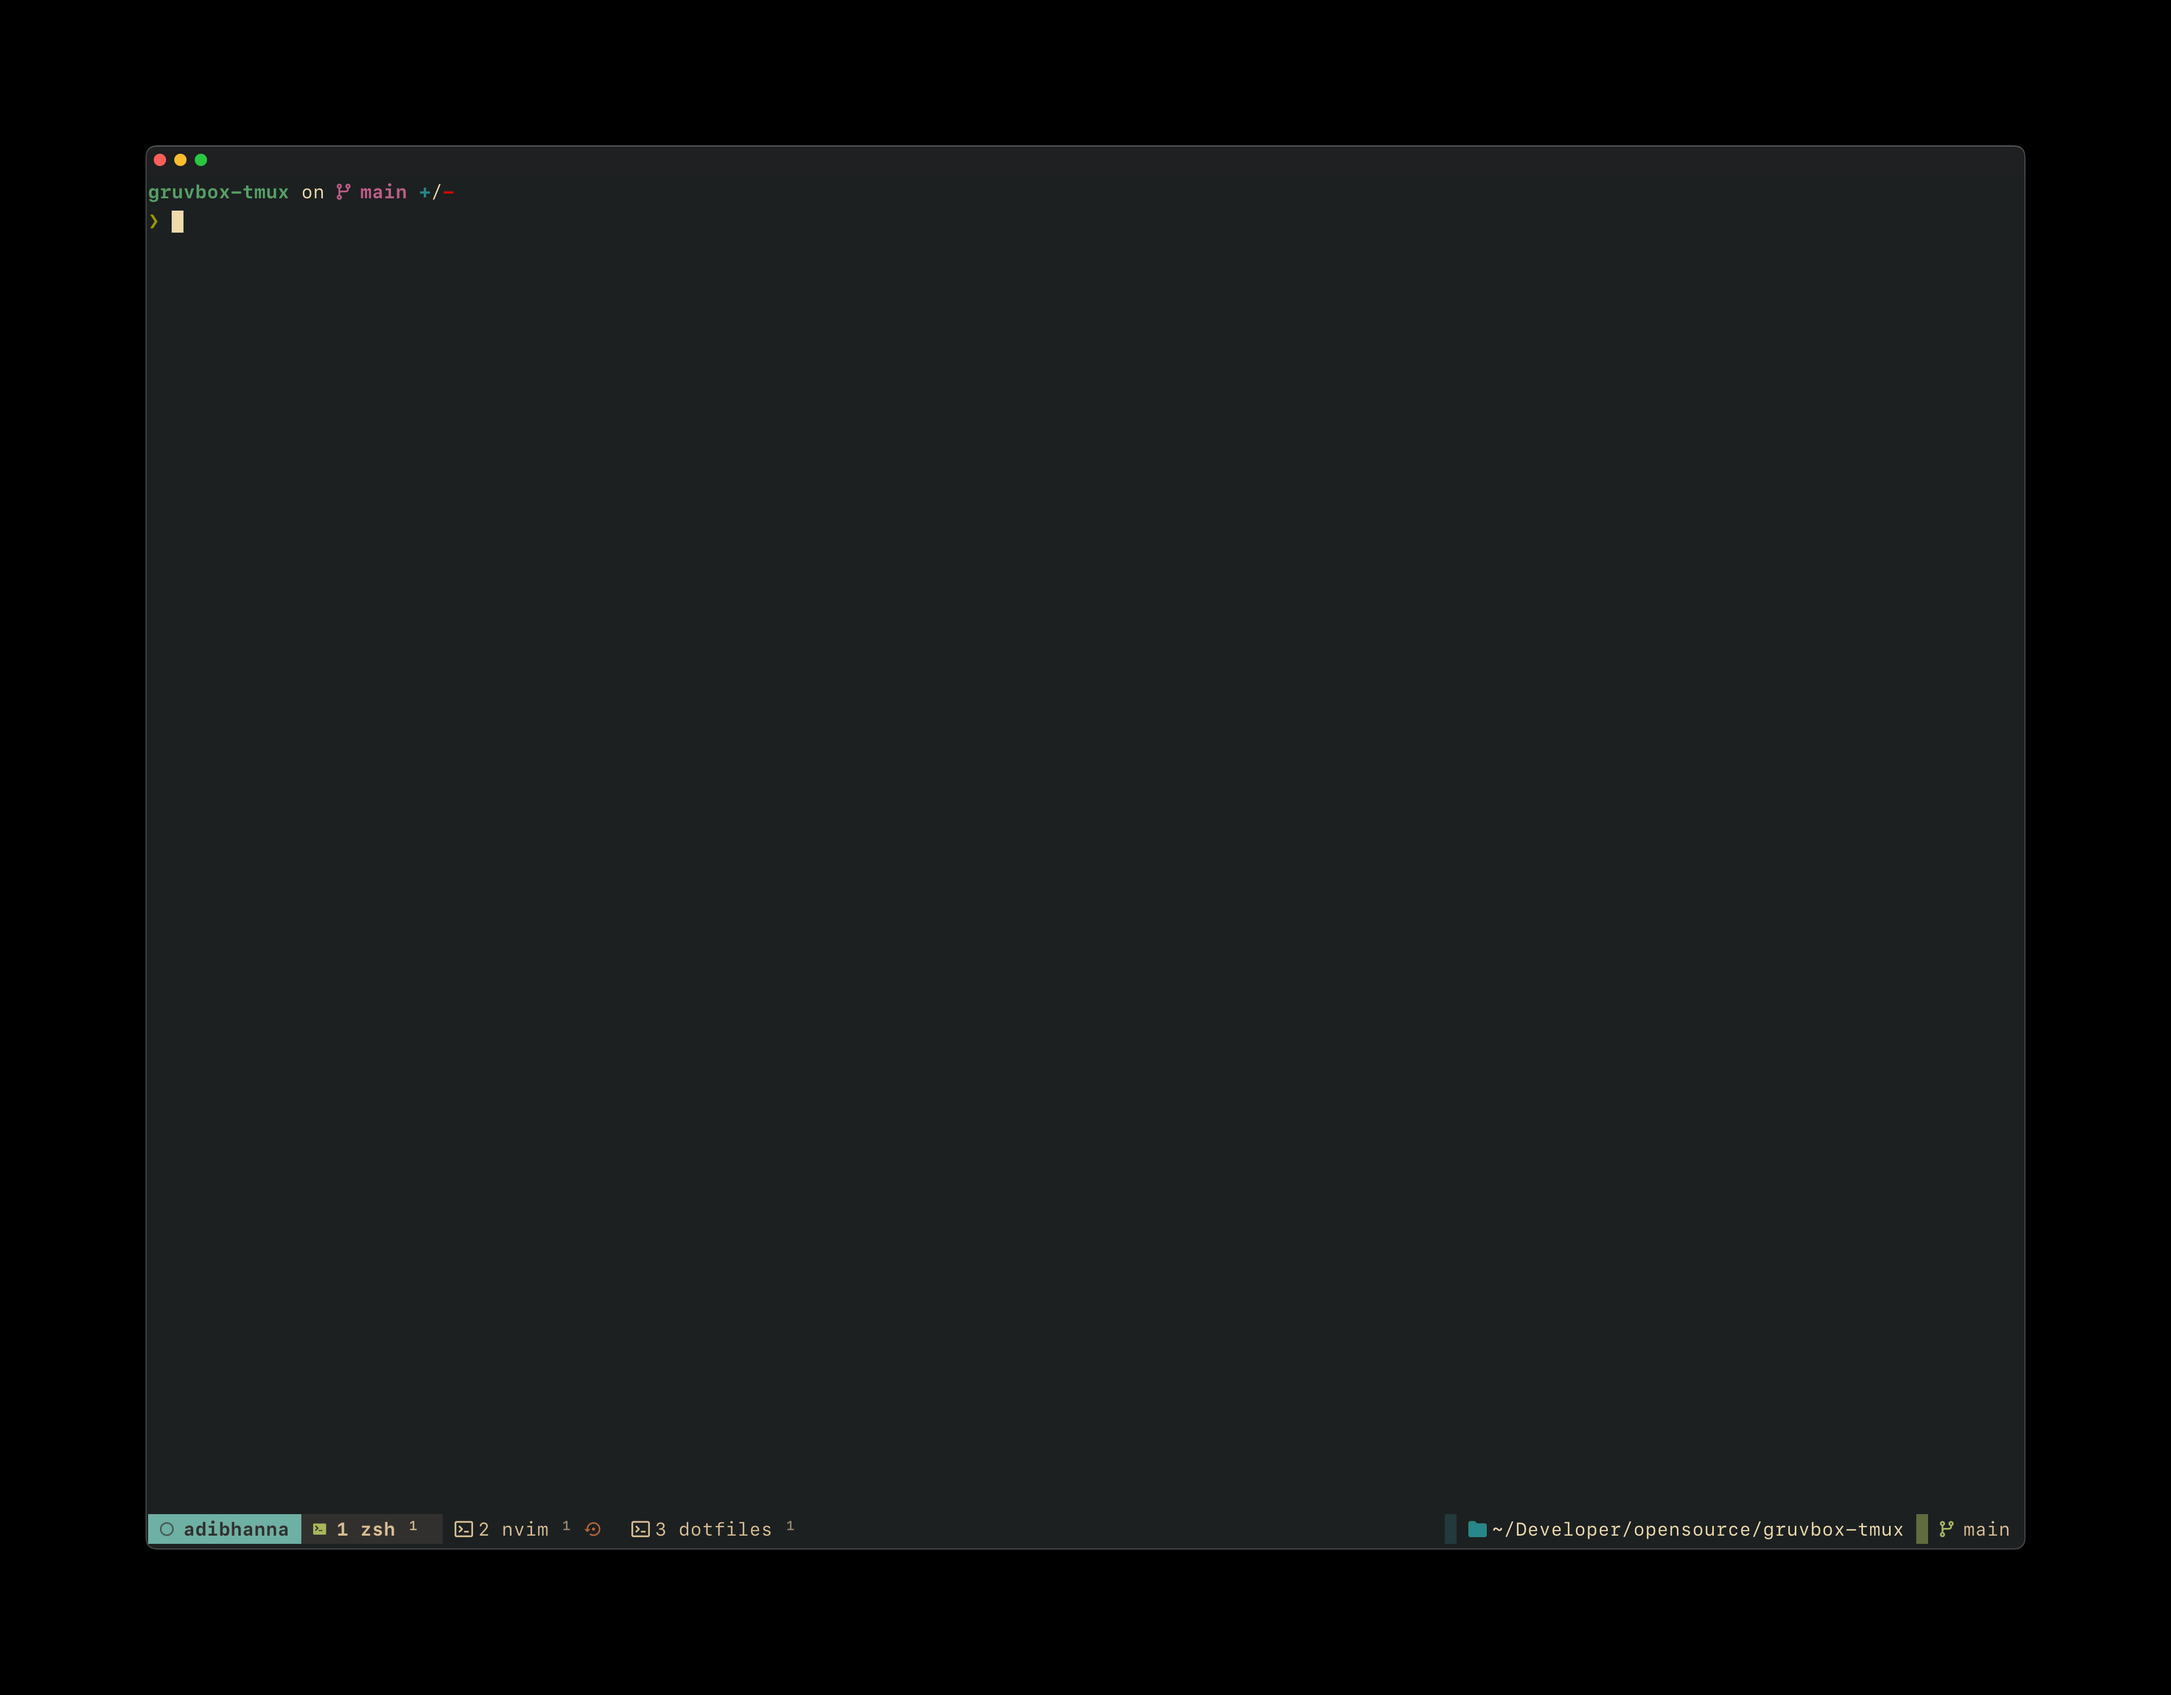
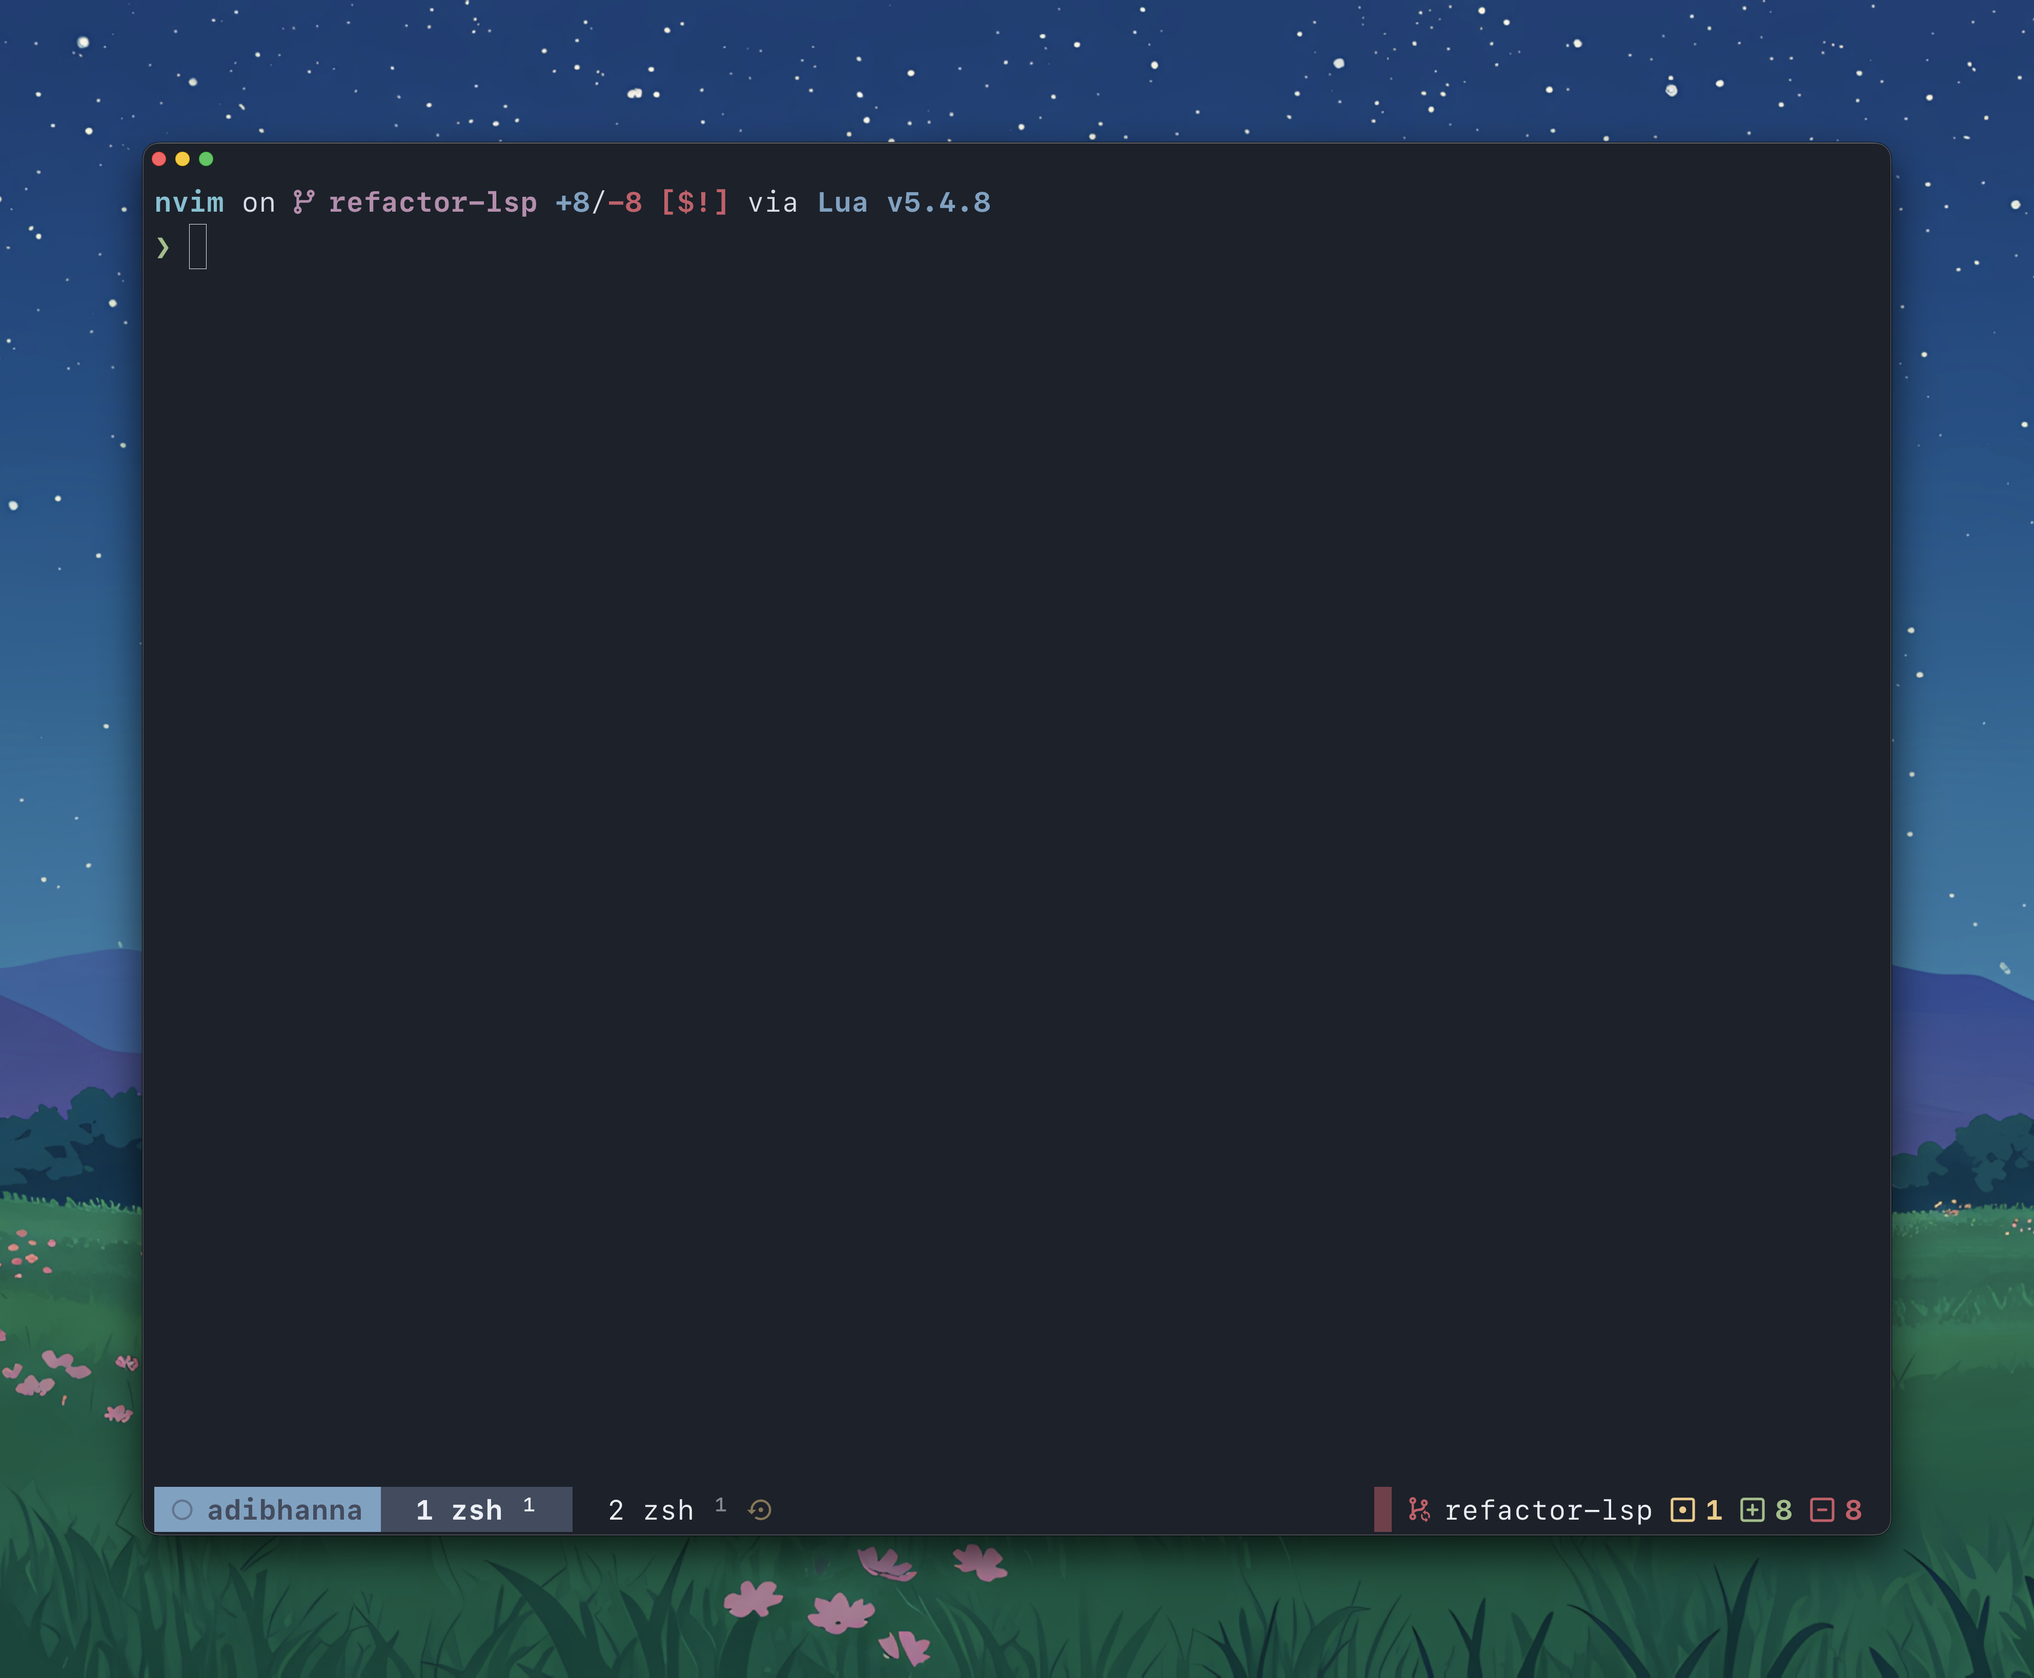
wip

Changed region(s): [[0.0, 0.0, 1.0, 1.0]]

diff --git a/README.md b/README.md
@@ -1,24 +1,44 @@
-this is a simpified fork of https://github.com/janoamaral/tokyo-night-tmux all credit goes to the author ❤.
+# yukinord-tmux
 
-I updated the colors to match the gruvbox colorscheme used in neovim and ghostty terminal.
+A simplified fork of [tokyo-night-tmux](https://github.com/janoamaral/tokyo-night-tmux) - all credit goes to the author.
 
+Updated colors to match the [yukinord.nvim](https://github.com/adibhanna/yukinord.nvim) colorscheme.
+
+## Installation
+
+```bash
+# Add to your tmux.conf
+set -g @plugin "adibhanna/yukinord-tmux"
+
+# Or for local installation
+run-shell ~/path/to/yukinord-tmux/yukinord.tmux
 ```
-set -g @plugin "adibhanna/gruvbox-tmux"
-set -g @gruvbox-theme dark # dark or light
 
-# Optional: Configure GitHub status display (default: on)
-set -g @gruvbox-tmux_github_status on # on or off
+## Configuration
+
+```bash
+# Optional settings
+set -g @yukinord-tmux_window_id_style none      # none, digital, roman, super, sub, dsquare, hsquare
+set -g @yukinord-tmux_pane_id_style super       # none, digital, roman, super, sub, dsquare, hsquare
+set -g @yukinord-tmux_zoom_id_style none        # none, digital, roman, super, sub, dsquare, hsquare
+set -g @yukinord-tmux_session_bg "on"           # on or off (transparent)
+set -g @yukinord-tmux_window_center "off"       # on or off
+set -g @yukinord-tmux_github_status on          # on or off
+
+# Path widget (disabled by default)
+set -g @yukinord-tmux_show_path 1
+set -g @yukinord-tmux_path_format relative      # relative or full
 ```
 
 ## Features
 
 - **Git Status**: Shows current branch, sync status, and change counts
 - **GitHub Integration**: Displays open pull requests and issues count for the current repository
-  -  Pull requests (magenta)
-  -  Issues (red)
+  - Pull requests (magenta)
+  - Issues (red)
   - Requires GitHub CLI (`gh`) for authenticated requests or falls back to unauthenticated API calls
   - Results are cached for 5 minutes to improve performance
-  - Can be disabled with `set -g @gruvbox-tmux_github_status off`
+  - Can be disabled with `set -g @yukinord-tmux_github_status off`
 - **Custom Window Numbers**: Configurable window and pane number styles
 - **Path Widget**: Shows current directory path
 
@@ -32,10 +52,6 @@ For the best experience with GitHub integration:
 
 Without GitHub CLI, the extension falls back to unauthenticated API requests which are rate-limited to 60 requests per hour per IP address.
 
-## Dark
+## Screenshot
 
-![dark](img/dark.png)
-
-## Light
-
-![light](img/light.png)
+![yukinord-tmux](img/dark.png)
